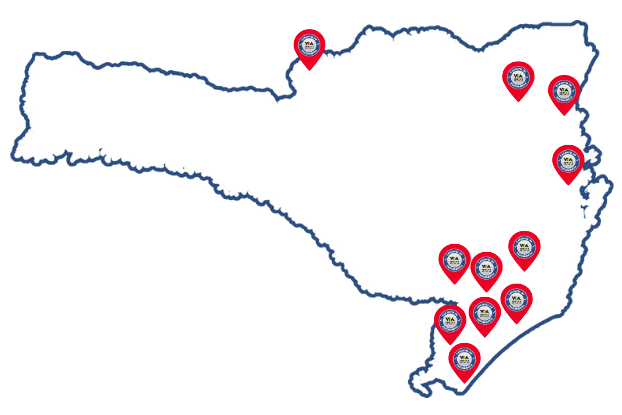
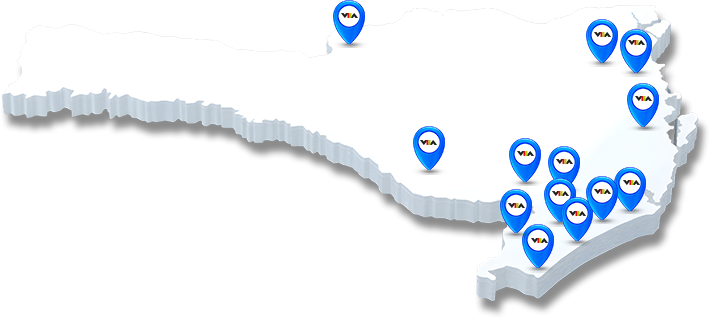
change where are we section

Changed region(s): [[0.0, 0.0283, 1.0, 0.9906], [0.336, 0.0, 0.5804, 0.2547], [0.5804, 0.0566, 0.7331, 0.0849]]

diff --git a/src/components/where-are-we/index.tsx b/src/components/where-are-we/index.tsx
@@ -1,6 +1,7 @@
 import { useRef } from "react";
 import mapImage from "../../assets/map.png";
 import { motion, useInView } from "framer-motion";
+import buttonIcon from '../../assets/icons/button-icon.png'
 
 export const WhereAreWe = () => {
   const ref = useRef(null);
@@ -14,32 +15,33 @@ export const WhereAreWe = () => {
       className="w-full bg-[url(/where.png)] bg-cover md:max-h-[420px]"
       ref={ref}
     >
-      <div className="max-w-[1440px] m-auto p-10 flex items-center justify-center gap-10 flex-col md:flex-row md:gap-48 md:max-h-[420px]">
+      <div className="max-w-[1440px] m-auto p-10 flex items-center justify-center gap-24 flex-col md:flex-row md:gap-32 md:max-h-[420px]">
         <motion.div
           initial={{ opacity: 0, x: -100 }}
           animate={{ opacity: 1, x: isInView ? 0 : -100 }}
           transition={{ duration: 1 }}
         >
-          <h1 className="text-3xl text-white font-bold md:text-5xl text-center">
-            Sua via para a confiança <br /> tem endereço certo!
+          <h1 className="text-3xl text-white font-bold md:text-5xl">
+            Quando o assunto é <br /> confiança, o caminho <br /> leva à VIA!
           </h1>
-          <p className="text-white text-xl mt-4 text-wra text-center">
-            Estamos presentes em diversas cidades de{" "}
-            <strong>Santa Catarina.</strong>
+          <p className="text-white text-2xl mt-4 text-wra">
+            Estamos em diversas cidades de <br/>
+            <strong className="text-[#83caff]">Santa Catarina</strong> para te atender.
           </p>
-          <div className="flex items-center justify-center">
+
             <button
               onClick={handleRedirect}
-              className="mt-5 bg-[#3266b2] rounded-full text-white px-5 py-2 hover:opacity-90"
+              className="mt-10 bg-white rounded-full text-zinc-900 py-1 pr-3 pl-2 hover:opacity-90 flex items-center gap-2 md:text-lg text-md"
             >
-              Encontre uma unidade perto de você
+              <img src={buttonIcon} alt="icon" className="w-8 h-6" />
+              Encontre uma unidade <strong>perto de você.</strong>
             </button>
-          </div>
+
         </motion.div>
         <motion.img
           src={mapImage}
           alt="desenho de um mapa"
-          width={460}
+          width={520}
           initial={{ opacity: 0, x: 100 }}
           animate={{ opacity: 1, x: isInView ? 0 : 100 }}
           transition={{ duration: 1 }}

diff --git a/src/components/footer/index.tsx b/src/components/footer/index.tsx
@@ -47,10 +47,10 @@ export const Footer = () => {
         </section>
       </div>
       <div className="md:hidden flex items-center justify-center p-6 border-t border-zinc-100 text-center">
-        ©2025 Via Vistoria Veicular Ltda <br /> Todos os direitos reservados.
+        ©2026 Via Vistoria Veicular Ltda <br /> Todos os direitos reservados.
       </div>
       <div className="md:flex hidden items-center justify-center p-6 border-t border-zinc-100 text-center">
-        ©2025 Via Vistoria Veicular Ltda – Todos os direitos reservados.
+        ©2026 Via Vistoria Veicular Ltda – Todos os direitos reservados.
       </div>
     </div>
   );
